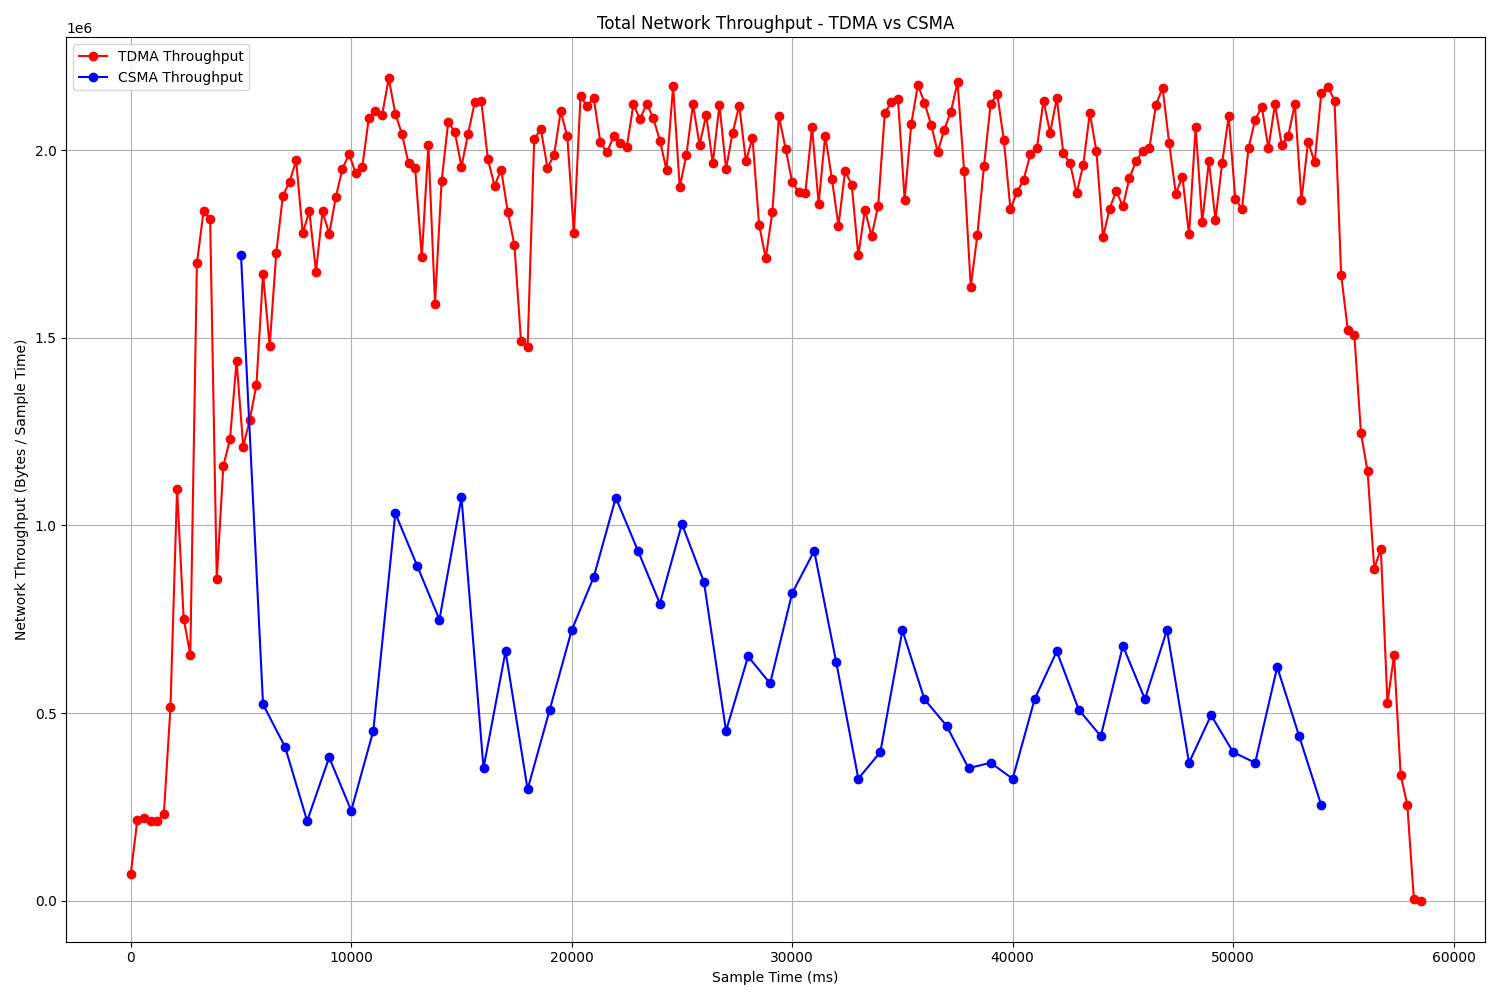
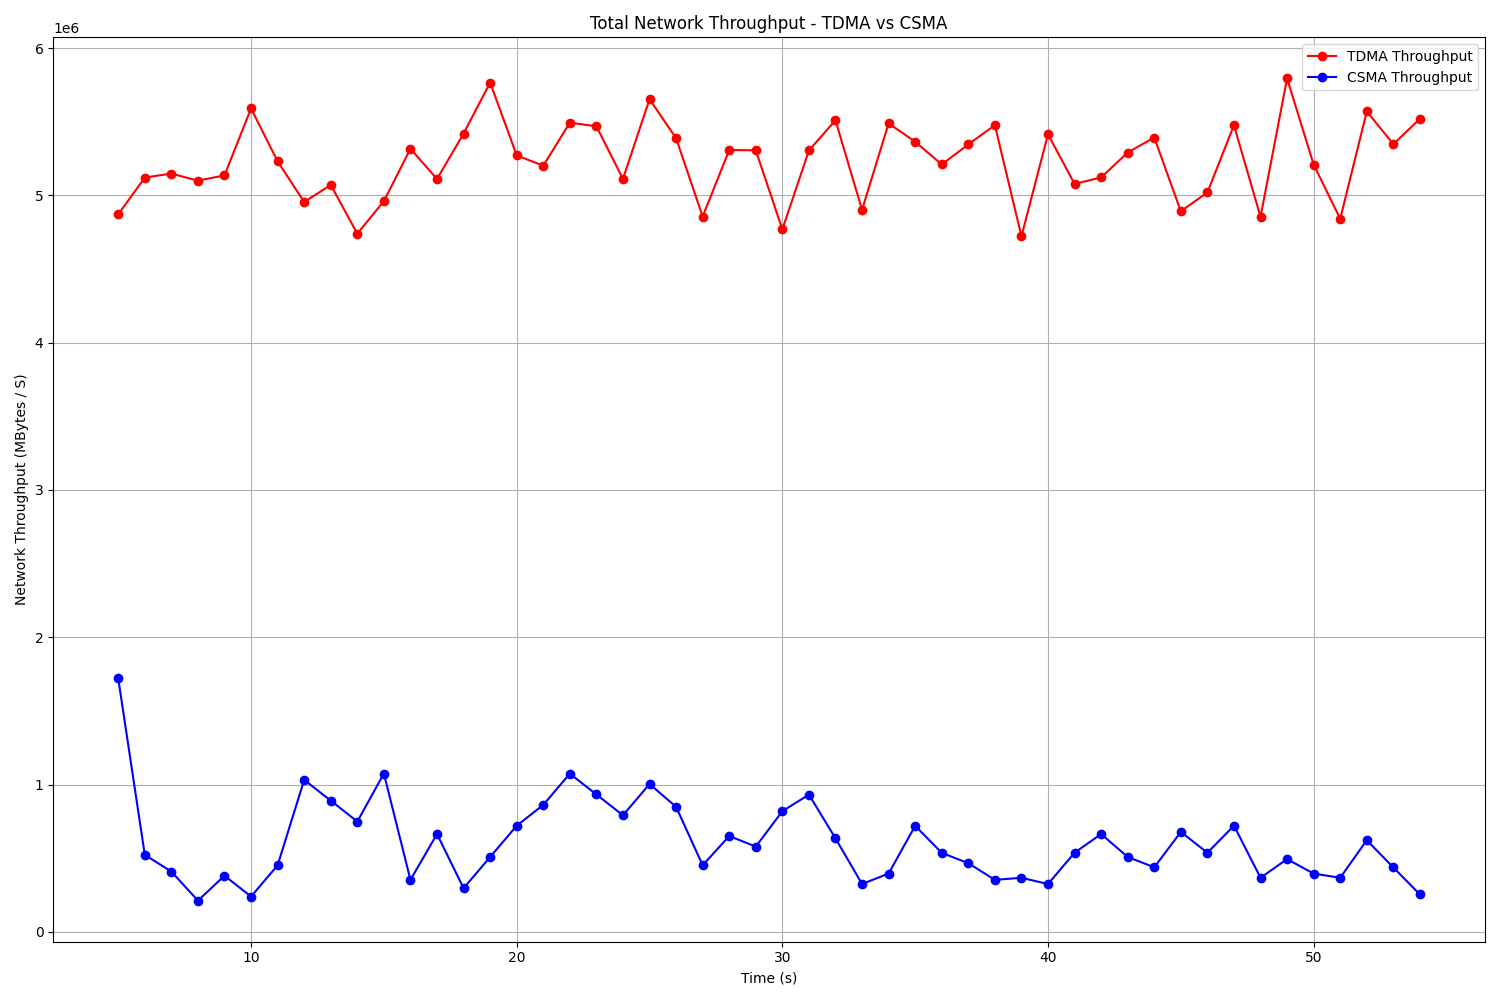
Using iperf logs for throughput in all cases

diff --git a/docs/logs/processTrace.py b/docs/logs/processTrace.py
@@ -4,7 +4,7 @@ import math
 import matplotlib.pyplot as plt
 import os
 
-TEST_NAME = "tree-topology"
+TEST_NAME = "star-topology"
 TEST_TYPE = "tdma"
 TRACE_NAME = "trace-6nodes.pcapng.gz"
 
@@ -410,9 +410,9 @@ def tdma_network_throughput(tdma_path):
     return (tdma_x, tdma_y)
 
 
-def csma_network_throughput(csma_path):
+def read_iperf_logs(iperf_log_path):
     
-    file_list = os.listdir(csma_path)
+    file_list = os.listdir(iperf_log_path)
     file_list.sort()
     values = list()
     
@@ -422,8 +422,8 @@ def csma_network_throughput(csma_path):
     for file in file_list:
          
         #Ignore throughput from drone1
-        if 'throughput' in file:
-            f = open(csma_path + '/' + file, "r")
+        if 'throughput' in file and 'drone' in file:
+            f = open(iperf_log_path + '/' + file, "r")
             values = list()
 
             first_line = f.readline()    
@@ -448,8 +448,8 @@ def csma_network_throughput(csma_path):
 
                 node_data[file] = values
             
-    csma_x = list()
-    csma_y = list()
+    x = list()
+    y = list()
 
     for i in range(0, len(node_data[files[0]])):
 
@@ -458,10 +458,10 @@ def csma_network_throughput(csma_path):
         for file in files:
             total+=node_data[file][i]
 
-        csma_y.append(total)
-        csma_x.append(i*1000)
+        y.append(total)
+        x.append(i)
 
-    return (csma_x,csma_y)         
+    return (x,y)         
     
     
 
@@ -469,19 +469,20 @@ def csma_network_throughput(csma_path):
 def compare_throughput(tdma_path, csma_path):
     
     #These functions should simply return a tuple with x and y data for the plots
-    (tdma_x, tdma_y) = tdma_network_throughput(tdma_path)
-    (csma_x, csma_y) = csma_network_throughput(csma_path)
+    (tdma_x, tdma_y) = read_iperf_logs(tdma_path)
+    (csma_x, csma_y) = read_iperf_logs(csma_path)
 
     plt.figure(figsize=(15,10))
     plt.clf()
-    plt.plot(tdma_x, tdma_y, marker='o', linestyle='-', color="red", label = "TDMA Throughput")
+    plt.plot(tdma_x[5:-5], tdma_y[5:-5], marker='o', linestyle='-', color="red", label = "TDMA Throughput")
     plt.plot(csma_x[5:-5], csma_y[5:-5], marker='o', linestyle='-', color="blue", label = "CSMA Throughput")
 
     plt.legend()
     plt.grid()
-    plt.xlabel("Sample Time (ms)")
-    plt.ylabel("Network Throughput (Bytes / Sample Time)")
+    plt.xlabel("Time (s)")
+    plt.ylabel("Network Throughput (MBytes / S)")
     plt.title("Total Network Throughput - TDMA vs CSMA")
+    plt.ticklabel_format(axis='y', style='sci', scilimits=(6,6))
     plt.tight_layout()
     plt.savefig('./' + TEST_NAME +'/' + TEST_TYPE + '/' + 'network-throughput.png')
         
@@ -492,5 +493,5 @@ if __name__ == '__main__':
 
     compute_position('./' + TEST_NAME +'/' + TEST_TYPE + '/' + TRACE_NAME)
 
-    compare_throughput('./' + TEST_NAME +'/' + TEST_TYPE + '/' + TRACE_NAME, './' + TEST_NAME +'/csma')
+    compare_throughput('./' + TEST_NAME +'/tdma' , './' + TEST_NAME +'/csma')
 
